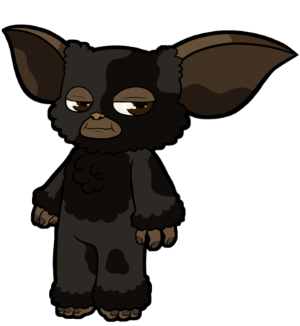
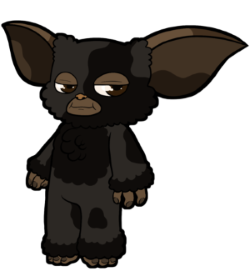
- Added resized Gremlin1.png sprite image

diff --git a/src/views/BattlePanel.java b/src/views/BattlePanel.java
@@ -28,7 +28,7 @@ public class BattlePanel extends JPanel {
     /** . */
     private static final int HERO_AND_MONSTER_HEIGHT = 326;
     /** . */
-    private static final int HERO_X_COORDINATE = 220;
+    private static final int HERO_X_COORDINATE = 150;
     /** . */
     private static final int HERO_Y_COORDINATE = 200;
     /** . */
@@ -44,13 +44,13 @@ public class BattlePanel extends JPanel {
     /** . */
     private static final int HERO_AND_MONSTER_HEALTH_BAR_HEIGHT = 20;
     /** . */
-    private static final int HERO_HEALTH_BAR_X_COORDINATE = 410;
+    private static final int HERO_HEALTH_BAR_X_COORDINATE = 400;
     /** . */
     private static final int HERO_HEALTH_BAR_Y_COORDINATE = 350;
     /** . */
-    private static final int MONSTER_HEALTH_BAR_X_COORDINATE = 470;
+    private static final int MONSTER_HEALTH_BAR_X_COORDINATE = 490;
     /** . */
-    private static final int MONSTER_HEALTH_BAR_Y_COORDINATE = 100;
+    private static final int MONSTER_HEALTH_BAR_Y_COORDINATE = 180;
     /** . */
     private static final int ATTACK_AND_SPECIAL_ATTACK_BUTTON_WIDTH = 120;
     /** . */
@@ -105,7 +105,7 @@ public class BattlePanel extends JPanel {
 
     /** . */
     private void instantiateInstanceDataFields() {
-        final ImageIcon monsterImg = new ImageIcon("src/imgs/Ogre1.png");
+        final ImageIcon monsterImg = new ImageIcon("src/imgs/Gremlin1.png");
         final ImageIcon heroImg = new ImageIcon("src/imgs/Thief_Battle.png");
         final ImageIcon battleBGImg = new ImageIcon("src/imgs/BattleFieldImg1.png");
         myMonsterImgLabel = new JLabel(monsterImg);

diff --git a/src/views/MainFrame.java b/src/views/MainFrame.java
@@ -140,7 +140,8 @@ public class MainFrame extends JFrame {
                     }
                     myGamePlayPanel.setHeroMainImgFilePath(myAdventurer.getAdventurerMainImgFilePath());
                     myGamePlayPanel.addingPlayerChosenAdventurerImgToPanel();
-                    changeScreen(GAME_PLAY_PANEL);
+//                    changeScreen(GAME_PLAY_PANEL);
+                    changeScreen(BATTLE_PANEL);
                 }
             }
         });
